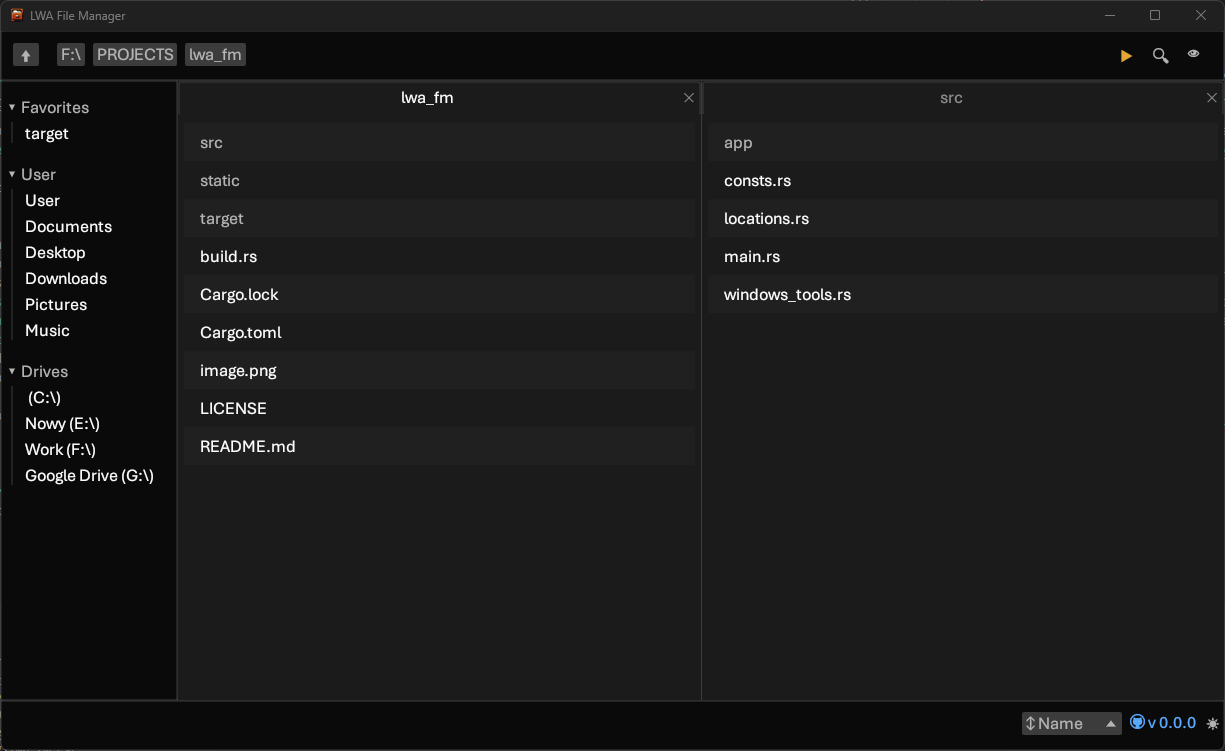
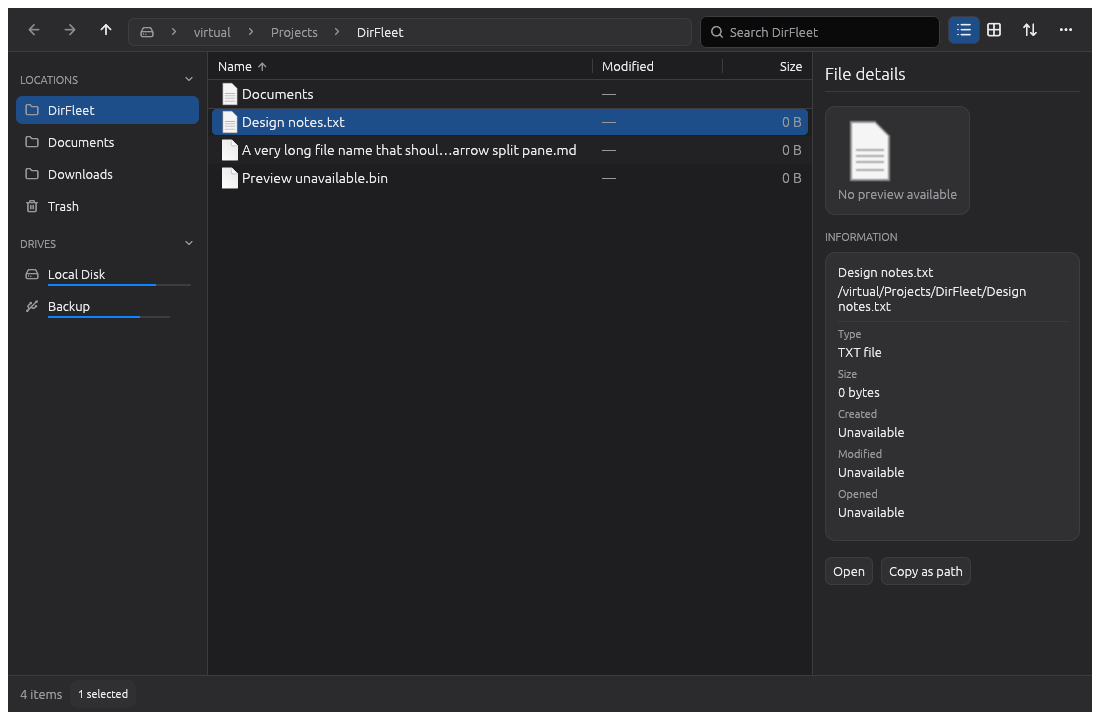
README fixes

diff --git a/README.md b/README.md
@@ -1,10 +1,10 @@
 # lwa_fm
 
-[![build](https://github.com/Leinnan/lwa_fm/actions/workflows/rust.yml/badge.svg)](https://github.com/Leinnan/lwa_fm/actions/workflows/rust.yml) [![license](https://img.shields.io/crates/l/bevy_button_released_plugin)](https://github.com/Leinnan/bevy_button_released_plugin#license)
+[![build](https://github.com/Leinnan/lwa_fm/actions/workflows/rust.yml/badge.svg)](https://github.com/Leinnan/lwa_fm/actions/workflows/rust.yml) [![license](https://img.shields.io/github/license/Leinnan/lwa_fm)](LICENSE)
 
 A (free) File Manager built with egui in Rust. Just a hobby, won't be big and ~~slow~~ professional like Finder or Windows Explorer.
 
-![LWA_FM screenshot](image.png)
+![DirFleet screenshot](image.png)
 
 ## Configuration
 
@@ -47,7 +47,7 @@ Please keep PRs (reasonably) small and scoped.
 ## Contributors
 
 <p align="center">
-<a href="https://github.com/bircni/Raytracing/graphs/contributors">
+<a href="https://github.com/Leinnan/lwa_fm/graphs/contributors">
   <img src="https://contrib.rocks/image?repo=Leinnan/lwa_fm"/>
 </a>
 </p>
